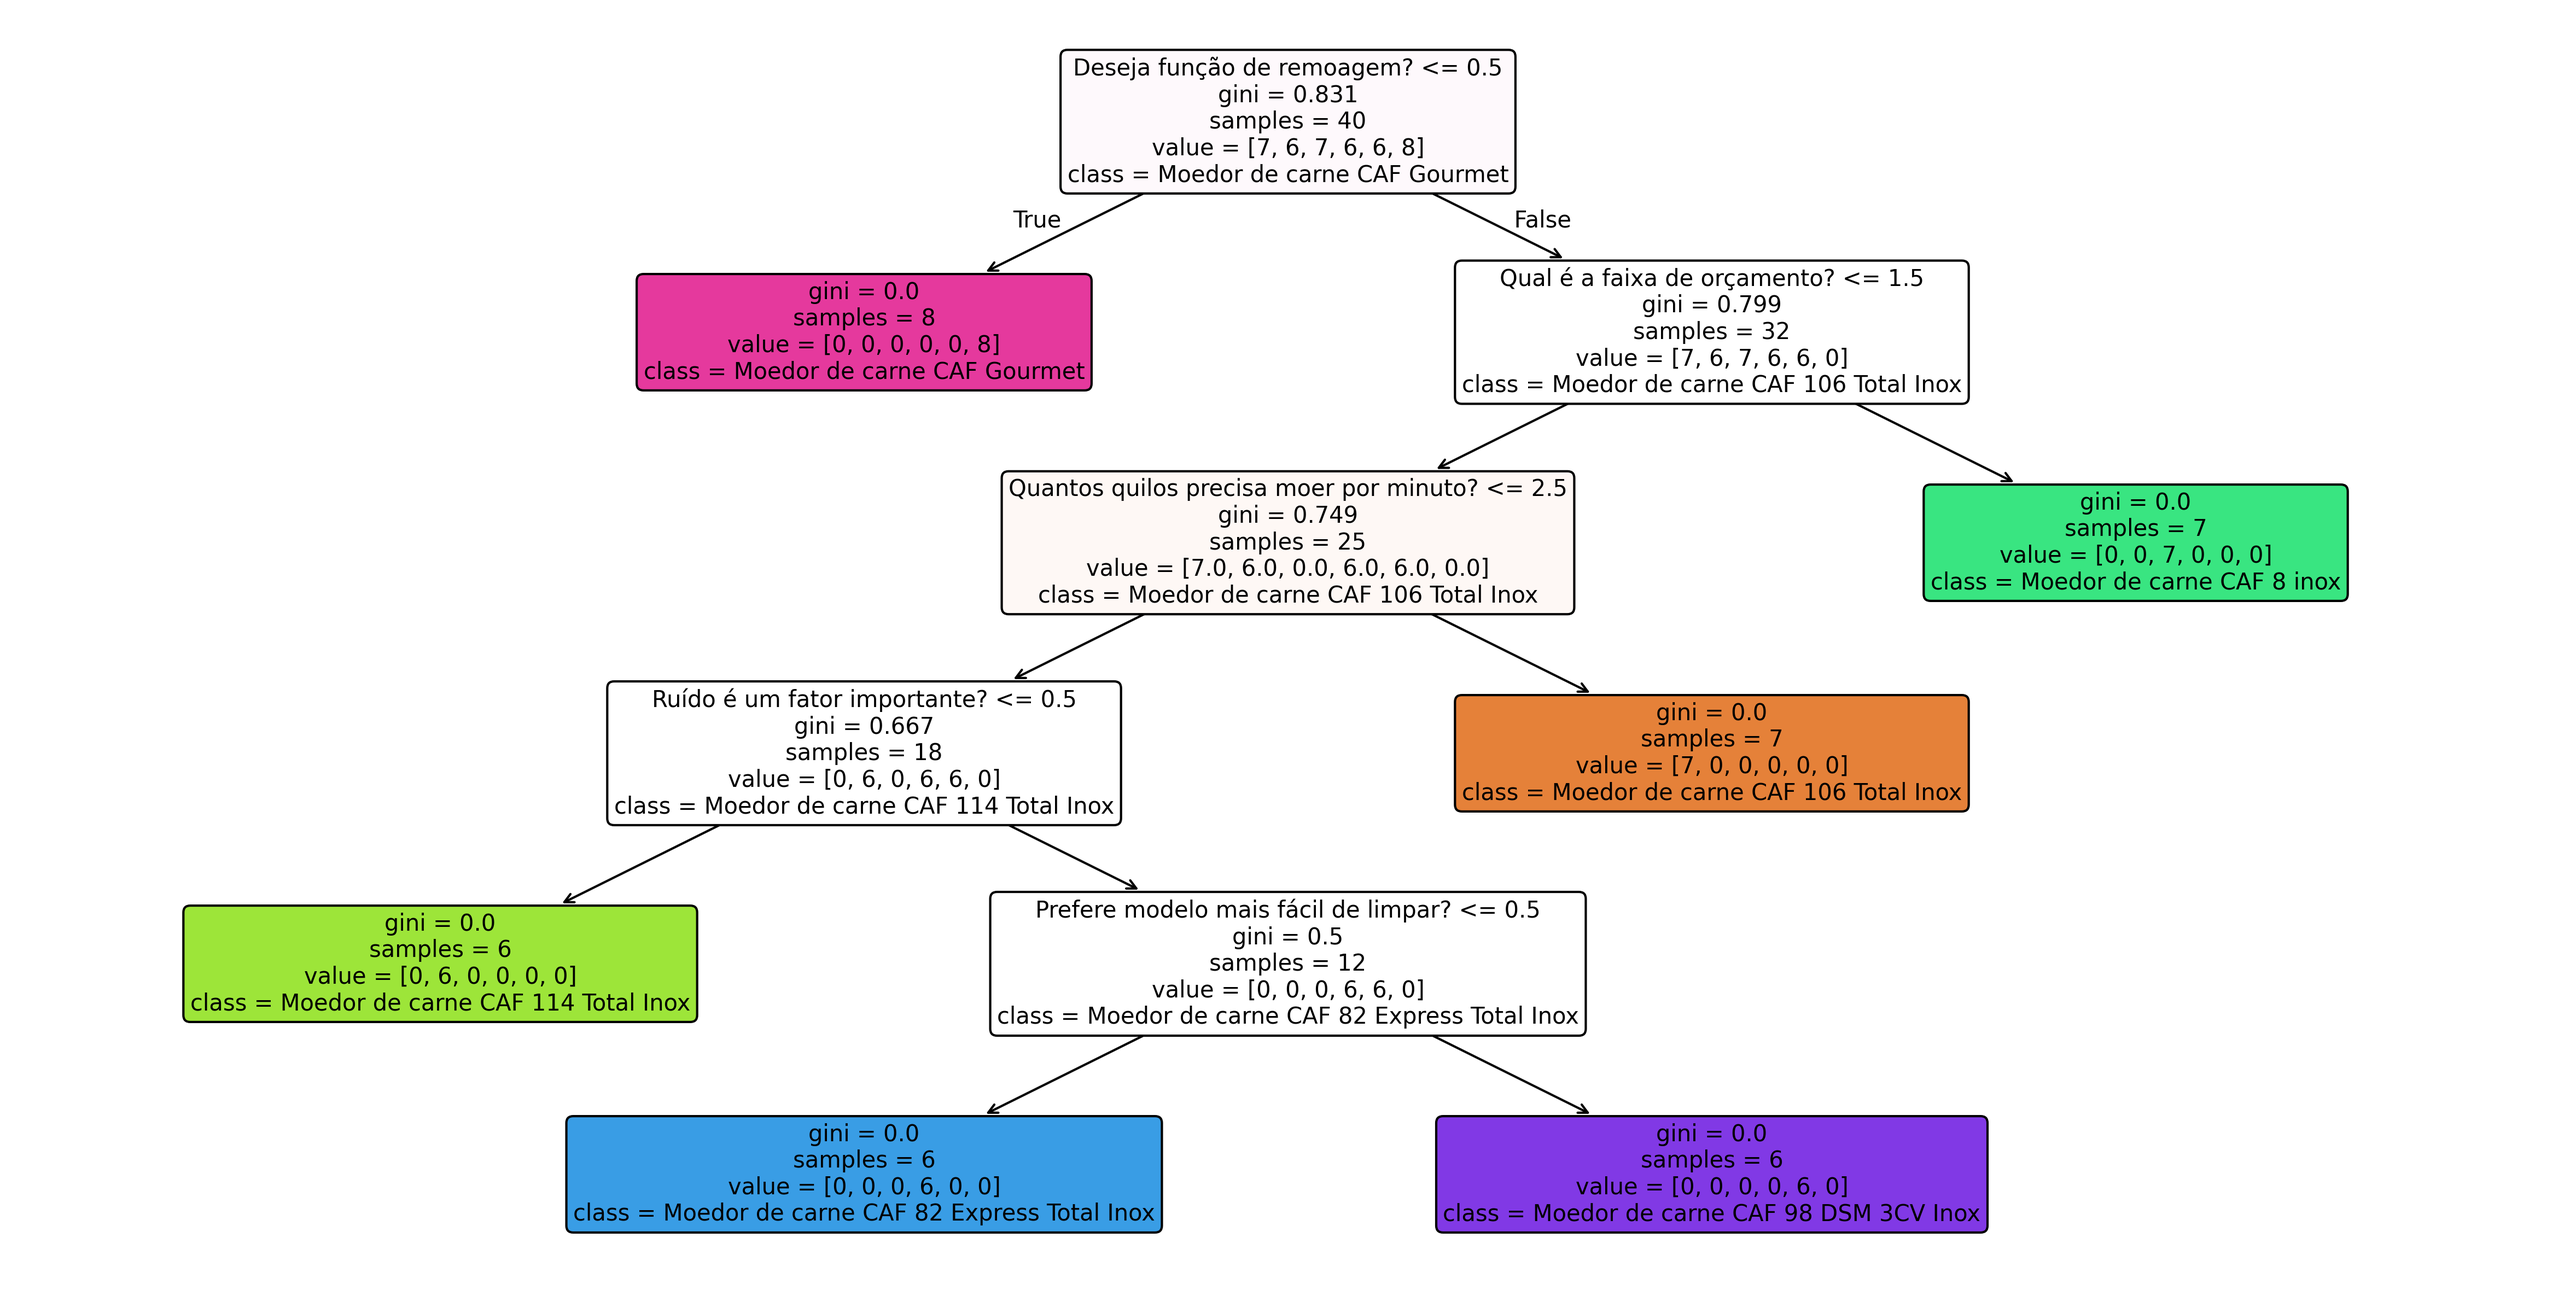
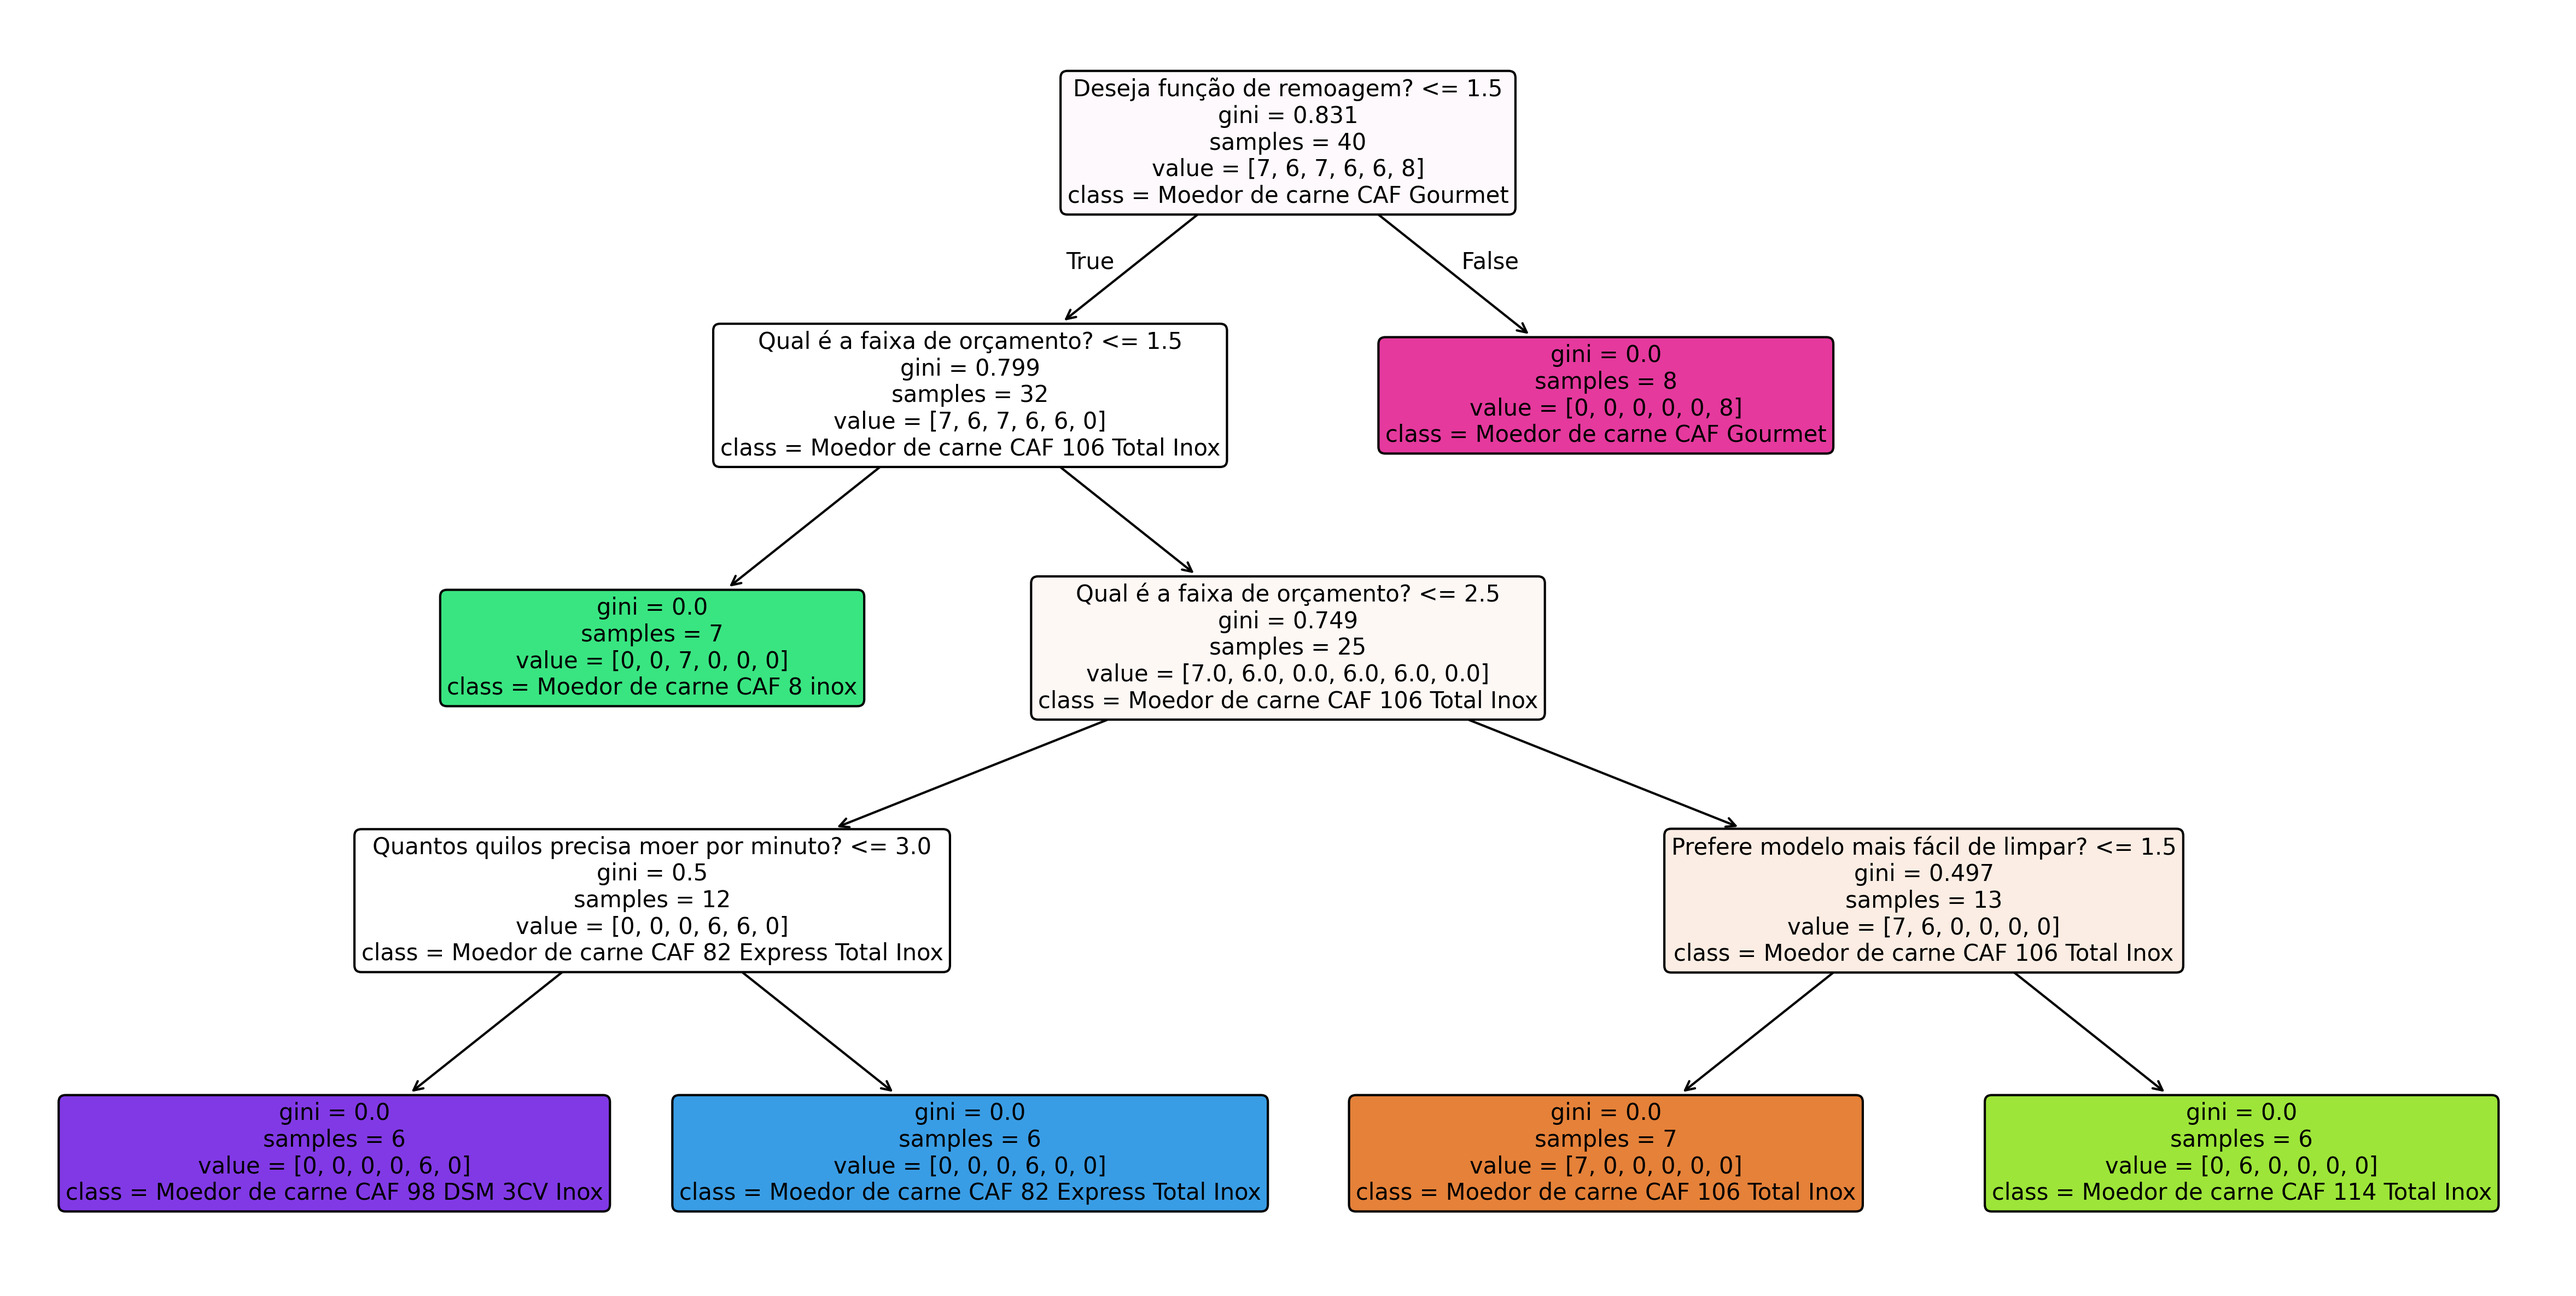
Adiciona função para converter valores categóricos em numéricos no script de importação de dados, melhorando a preparação dos dados para análise de árvore de decisão.

Changed region(s): [[0.0624, 0.0312, 0.8739, 0.8118], [0.0, 0.843, 0.9675, 0.9679], [0.749, 0.3435, 0.9363, 0.4684]]

diff --git a/importar_dados.py b/importar_dados.py
@@ -11,6 +11,55 @@ from sklearn.model_selection import train_test_split
 from sklearn.metrics import confusion_matrix, ConfusionMatrixDisplay
 import matplotlib.pyplot as plt
 
+def aplicar_replace(dados):
+    """Converte valores categóricos para números usando mapeamento específico."""
+    dados_encoded = dados.copy()
+    
+    # Mapeamento de valores categóricos para números
+    mapeamentos = {
+        # Sim/Não
+        'Sim': 1,
+        'Não': 2,
+        
+        # Finalidade
+        'Industrial': 1,
+        'Comercial': 2,
+        'Doméstico': 3,
+        
+        # Capacidade (Kg por minuto)
+        'Até 1Kg': 1,
+        'Até 6.5Kg': 2,
+        'Até 9Kg': 3,
+        'Acima de 10Kg': 4,
+        
+        # Voltagem
+        '127V': 1,
+        '220V': 2,
+        'Trifásico': 3,
+        
+        # Tipo de material
+        'Embutidos': 1,
+        'Carne, Frango': 2,
+        'Diversos (Castanhas, Frutas, Graõs, Etc)': 3,
+        
+        # Orçamento
+        'Até R$ 2,500,00': 1,
+        'Até R$ 15,000,00': 2,
+        'Acima de R$ 15,000,00': 3,
+        
+        # Potência
+        'Até 0,25kW': 1,
+        'Até 2,2kW': 2,
+        'Até 5,5kW': 3,
+        'Até 7,5kW': 4,
+    }
+    
+    # Aplica o replace em todas as colunas
+    for col in dados_encoded.columns:
+        dados_encoded[col] = dados_encoded[col].replace(mapeamentos)
+    
+    return dados_encoded
+
 def main():
     # 1. Importar dados
     df = pd.read_csv('base-dados-atualizada.csv', encoding='utf-8')
@@ -25,15 +74,18 @@ def main():
     print(f"Classes: {y.nunique()} categorias\n")
     
     # 3. Converter dados categóricos para numéricos
-    X_encoded = X.copy()
-    label_encoders = {}
+    # Primeiro aplica replace nos valores conhecidos
+    X_encoded = aplicar_replace(X)
     
+    # Depois aplica LabelEncoder nos valores que ainda são strings
+    label_encoders = {}
     for col in X_encoded.columns:
         if X_encoded[col].dtype == 'object':
             le = LabelEncoder()
             X_encoded[col] = le.fit_transform(X_encoded[col])
             label_encoders[col] = le
     
+    # Converte Y (produtos) com LabelEncoder
     le_y = LabelEncoder()
     y_encoded = le_y.fit_transform(y)
     
